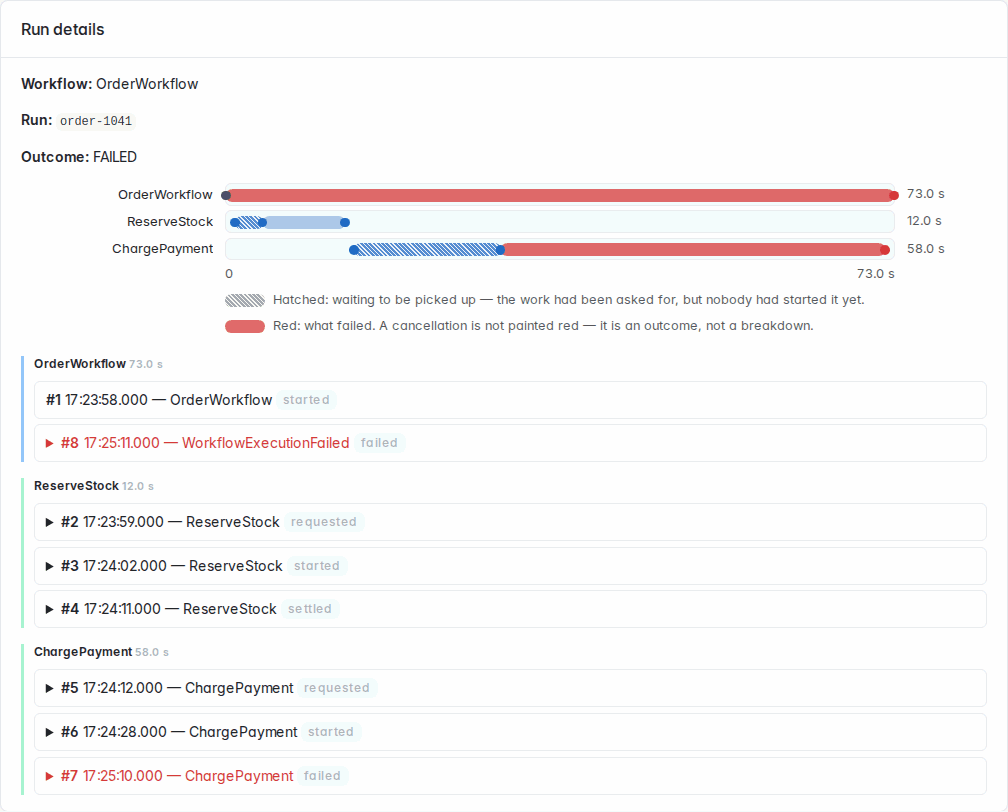
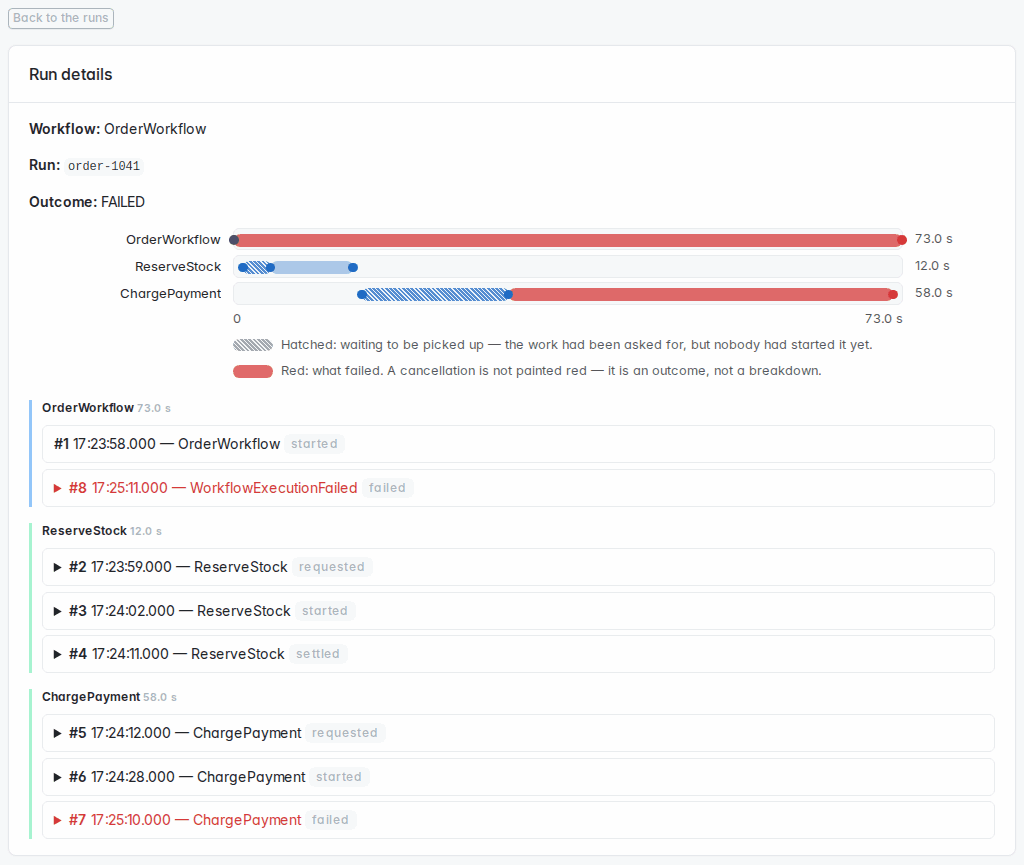
docs(plugin): reshoot the screenshots on the list and run routes (#264)
The runs list at /admin/durable/runs and one run per page at
/admin/durable/runs/{runId}, shot from the Sylius bench at 05d0bc84 over
the seeded runs of #551. The captions name the two routes.

Changed region(s): [[0.0, 0.1847, 0.9226, 0.7697], [0.0, 0.8005, 0.369, 0.9852], [0.0, 0.0, 0.2153, 0.1539]]

diff --git a/README.md b/README.md
@@ -24,11 +24,11 @@
 
 Rendered by the Sylius bench (`sylius/` in the monorepo) on the SQL journal, over seeded runs.
 
-The runs list, with the backend state and the counters for the page:
+The runs list at `/admin/durable/runs`, with the backend state and the counters for the page:
 
 ![The Durable dashboard in the Sylius admin: backend state, counters per outcome, and the runs list](docs/dashboard.png)
 
-A completed run: one line per action, hatched while the work waited for a worker to pick it up:
+A completed run on its own page, `/admin/durable/runs/{runId}`: one line per action, hatched while the work waited for a worker to pick it up:
 
 ![Timeline of a completed order run: stock reservation, payment, a timer, then the confirmation email](docs/run.png)
 
